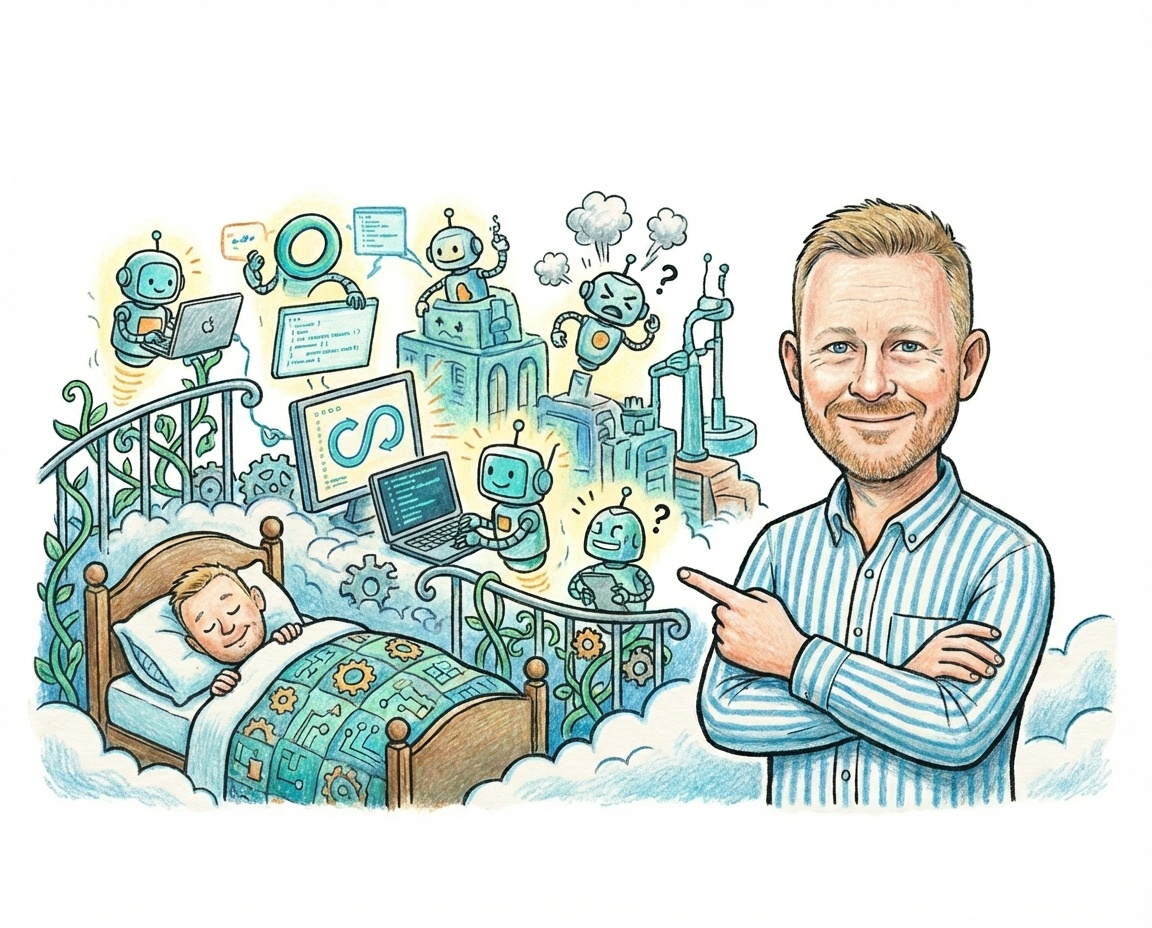
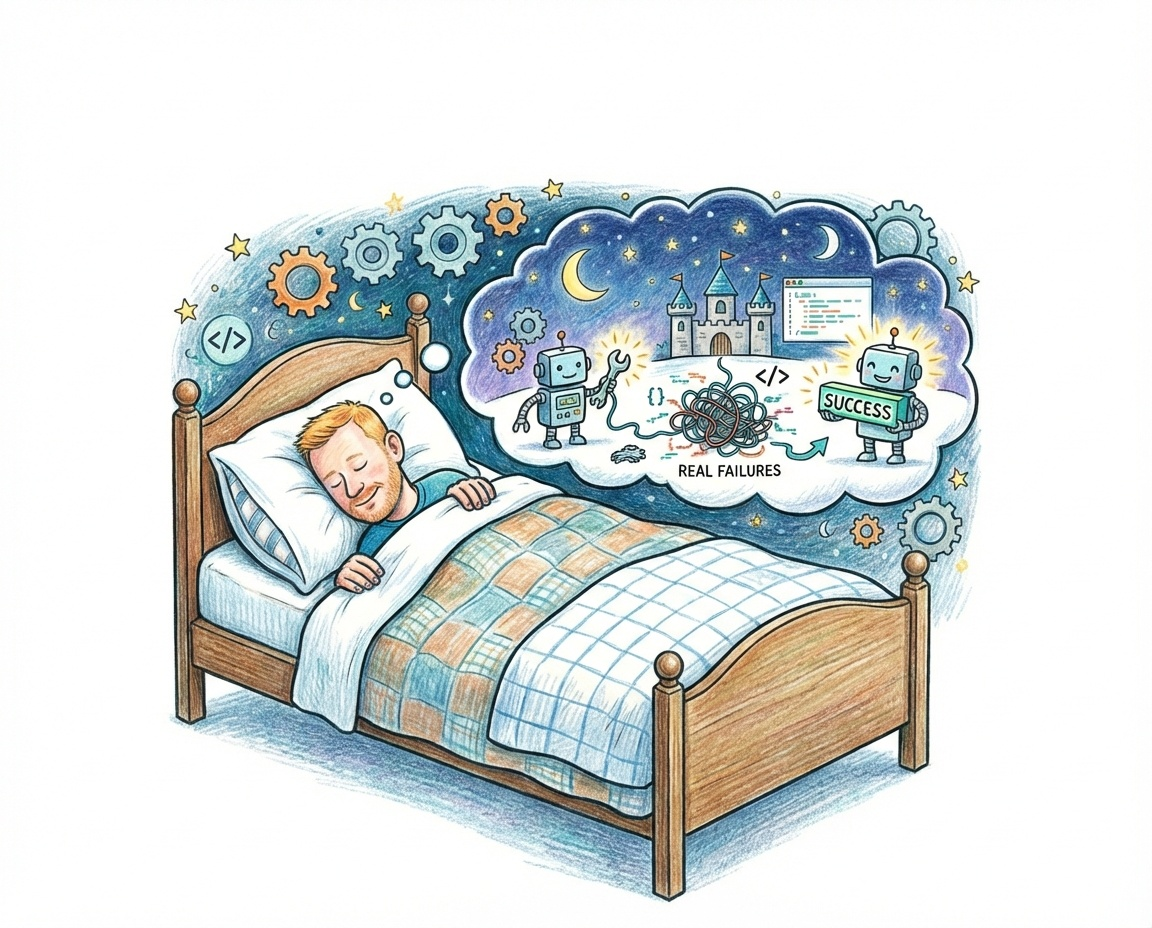
Update webinar to Ship While You Sleep
- Rename from Ralph Loops to catchier title
- Regenerate poster and hero images with new branding
- Update CLAUDE.md with webinar layout docs and image handling

diff --git a/CLAUDE.md b/CLAUDE.md
@@ -60,6 +60,7 @@ This file provides guidance to Claude Code (claude.ai/code) when working with co
 - **Historical parallels**: Connects current disruptions to past ones (Charlie Chaplin/industrial revolution to AI revolution)
 - **Sectional progression**: Likes consolidated sections with subsections (e.g., "Hidden Advantages of Consistency" with multiple H3 subheadings)
 - **Mid-article refinement**: Often revises structure during writing - consolidating related concepts under unified headings
+- **Combine thin sections**: When a section is too short (1-2 paragraphs), merge it with the next section rather than leaving thin content
 - **Academic grounding**: References Kahneman, includes research studies, but always with practical application
 - **Democratisation theme**: Frequently explores how technology enables underdogs (juniors with AI competing with seniors)
 - **Future implications focus**: Always ends looking forward to disruption/change rather than just current state
@@ -67,55 +68,6 @@ This file provides guidance to Claude Code (claude.ai/code) when working with co
 - **Bolded topic sentences**: For framework steps or structured content, bold the first sentence/phrase for scannability
 - **Conceptual distinction**: When explaining steps in a process, clarify WHAT vs HOW (e.g., "discover what the task is" vs "understand how to do it")
 - **"But" as a paragraph starter**: Frequently starts paragraphs with "But" to create contrast and maintain conversational flow
-
-### Webinar Blog Post Guidelines
-- **Opening hook**: Use compelling statistics or reframe broad claims (e.g., "95% of technical teams cannot ship their AI agents" rather than specific anecdotes)
-- **Anonymise attendee contributions**: Never include specific names, companies, or identifying details from webinar attendees. Generalise their experiences (e.g., "agential teams burning through budgets" not "$10,000 spent by Bob's team")
-- **Webinar context**: Always establish that content comes from a specific webinar with date - "On [date], I gave a webinar about..."
-- **Virtual vs physical**: Use "virtual room" for webinars, not just "room"
-- **Brand consistency**: Cherrypick is always spelled "Cherrypick" (not "CherryPick") and should link to cherrypick.co
-- **Case study linking**: Link to relevant case studies when mentioning specific examples (e.g., meal generator case study)
-- **Avoid clunky phrasing**: Don't spell out percentages in prose - use "80% success rate" not "eighty percent good responses"
-- **Tools and resources**: Extract tools mentioned in webinars as markdown link lists for easy reference
-- **Key takeaways**: Always include a clear takeaway and actionable "try this week" suggestion
-
-### Standard Post-Webinar Process
-After each webinar, follow these steps to archive the content and prepare for the next month:
-
-#### 1. Create Webinar Write-Up Blog Post
-- [ ] Wait for the webinar transcript to be provided
-- [ ] Create a new post in `_posts/` with format: `YYYY-MM-DD-webinar-title.md`
-- [ ] Use the current date for the post date
-- [ ] Convert the webinar transcript into a blog post following the webinar blog post guidelines above
-- [ ] Add categories: `ai`, `webinar`, and any other relevant categories
-- [ ] Include the webinar image if one exists (check `/assets/img/`)
-- [ ] Add "Tools and Resources" section with markdown link list
-- [ ] Add "Key Takeaway to Remember" section summarising main insights
-- [ ] Add "One Thing to Try This Week" section with actionable next steps
-
-#### 2. Extract Kit Newsletter Content
-- [ ] Create markdown summary with three sections:
-  - "Tools & Resources I Mentioned" (bulleted list with descriptions)
-  - "Key Takeaway to Remember" (paragraph format)
-  - "One Thing to Try This Week" (paragraph format with specific prompt)
-- [ ] Format for pasting into Kit email editor
-- [ ] Verify all links use absolute URLs (not relative paths)
-- [ ] Check referral links are included where applicable
-
-#### 3. Update Webinar Pages for Next Month
-- [ ] **Main webinar page** (`pages/webinar.md`):
-  - Increment the `kit_tag` number from current value (e.g., if current is `webinar7` → `webinar8`)
-  - Set `webinar_date` to the first Thursday of the next month at 14:00 UK local time
-  - Use correct timezone offset: `+01:00` for BST (British Summer Time, late March to late October) or `+00:00` for GMT
-    - Example: `"2025-10-02T14:00:00+01:00"` for October 2025 (BST)
-    - Example: `"2025-11-06T14:00:00+00:00"` for November 2025 (GMT)
-- [ ] **Specific webinar landing page** (e.g., `pages/webinar-advanced-prompting.md`):
-  - Remove the `redirect_from: /webinar` field (so it no longer redirects the main URL)
-
-#### 4. Commit and Push Changes
-- [ ] Commit the new blog post with message like: "Add webinar write-up: [Title]"
-- [ ] Commit the updated webinar page with message like: "Update webinar page for next month (webinar8)"
-- [ ] Push all changes to GitHub
 
 ## Coder Template Management
 
@@ -189,7 +141,9 @@ This is a GitHub Pages-compatible Jekyll blog using a Tailwind CSS theme. The si
 ### Key Layout Components
 - `_layouts/default.html` - Base template with Tailwind config and custom brand colors
 - `_layouts/post.html` - Post template with newsletter integration, social sharing, and webinar links
-  - **Webinar posts**: Posts tagged 'webinar' automatically show "Join Future Webinars" section after article content
+  - **Webinar posts**: Layout automatically shows "Previous Webinars" section after infographic
+  - **Webinar write-ups** (no `kit_tag`): Also show "Join Future Webinars" CTA and newsletter signup
+  - **Webinar landing pages** (have `kit_tag`): Skip "Join Future Webinars" CTA and newsletter (signup form is in content)
 - `_layouts/page.html` - Simple page template with title and content
 - `_includes/ai-newsletter-short.html` - Newsletter signup component
 - Custom Tailwind config with brand colors: `brand-white`, `brand-turquoise`, `brand-deep-turquoise`, `brand-light-blue`, `brand-black`, `brand-orange`
@@ -237,7 +191,9 @@ EVERYTHING ELSE HERE
 **Image Placement:**
 - **Main image = motif**: When creating infographics, extract the main visual motif and use it as `image:` in front matter. This is the hero image shown at top of post.
 - **Infographics via front matter**: Add `infographic: /assets/img/filename.jpg` to front matter. The layout automatically renders the full infographic at 50% width at the end of content.
-- **Blog infographics are low-res**: Resize infographics to ~512px max dimension for blog assets (use `sips -Z 512`). Full resolution goes to Newsletter Vault only.
+- **Blog infographics are low-res**: Resize infographics to ~512px max dimension for blog assets. Full resolution goes to Newsletter Vault only.
+- **Webinar adverts and extracted motifs can be high-res**: Don't resize these - copy at full resolution
+- **Image resizing**: Use `magick` on Linux (not `sips` which is macOS only). Preserve aspect ratio by specifying only one dimension.
 - Screenshots and diagrams in content use full width or appropriate sizing
 - Always save images as JPG (not PNG) for smaller file sizes
 

diff --git a/_posts/2026-02-05-webinar-ralph-loops.md b/_posts/2026-02-05-webinar-ralph-loops.md
@@ -1,6 +1,6 @@
 ---
 layout: post
-title: "Webinar: Ralph Loops - Run AI Agents While You Sleep"
+title: "Webinar: Ship While You Sleep"
 date: 2026-02-05 14:00:00 +0000
 categories:
 - ai
